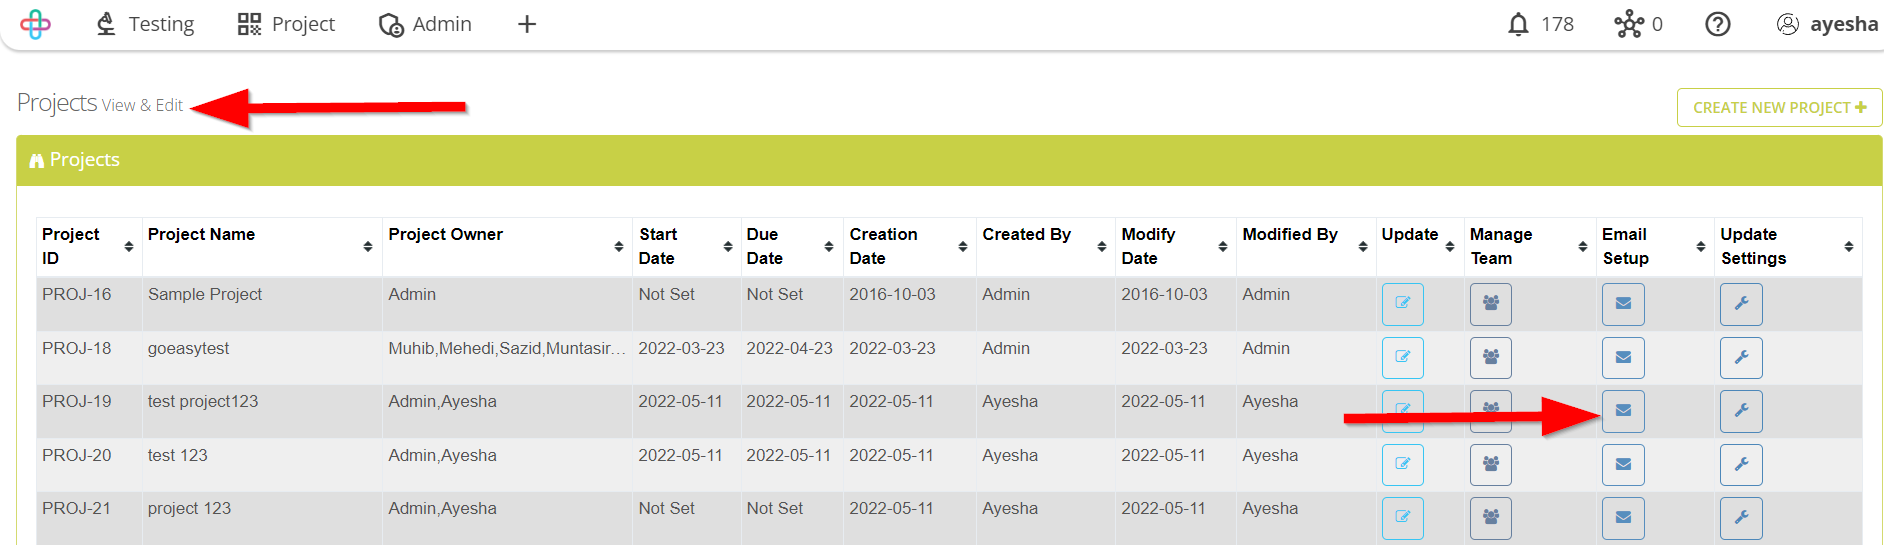
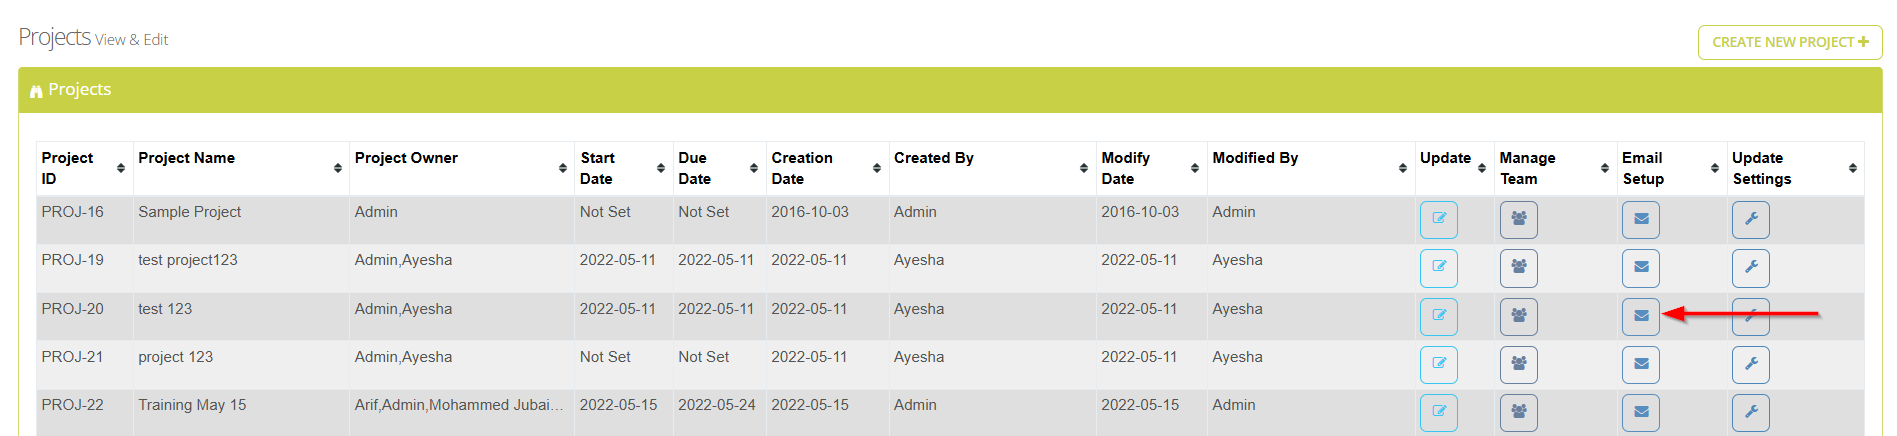
admin docs

diff --git a/docs/zeuz-server/admin/Projects/setup-email-notification.md b/docs/zeuz-server/admin/Projects/setup-email-notification.md
@@ -3,49 +3,102 @@ id: setup-email-notification
 title: Setting Up Email Notification
 ---
 
-### What does Email notification means in software testing?
+import MetaCard from '@site/src/components/MetaCard';
 
-**Email notification** in software testing refers to an automated system that sends email messages to relevant team members, stakeholders, or users to provide updates, alerts, and information about various aspects of the testing process. These notifications can include test results, issue reports, test case status changes, project milestones, and other critical updates.  
-**Email notifications** help keep team members informed and enable timely responses to issues, ensuring effective collaboration and efficient software testing processes.
+Setting up **email notification** means configuring the system in ZeuZ to automatically send email alerts to users when important event occur, such as test case updates, task assignments, or changes in test execution status.
 
-### Importance of setting up Email notification in software testing
+<MetaCard
+  availableFrom="20250518"
+  difficulty="🟢 Easy"
+  lastUpdated="25 Mar, 2026"
+  relatedTopics={["Create project", "Run tests", "Run ID details"]}
+/>
 
-Setting up **Email notifications** in software testing is crucial for timely communication of test results, issues, and project updates, facilitating quick response, collaboration, and informed decision-making among team members and stakeholders. This ensures efficient testing processes and high-quality software development.
+### Why it matters / Use Cases:
+- **Instant Updates**: Notifies team members when test cases are created, updated, or executed.
+- **Task Awareness**: Informs users when tasks or responsibilities are assigned to them.
+- **Faster Issue Response**: Alerts the team about failed test executions or important changes.
+- **Better Project Tracking**: Helps stakeholders monitor progress through automated email updates.
 
-## Steps
+## Prerequisites
+- Access to ZeuZ Server with permissions for **Admin → Team & Projects → Project List**.
+- At least one team must exist in the project to configure team-wise email settings.
+- A correct **From Address** must be provided to send notification emails.
+- The **Host/SMTP Address** and **Port number** must be correctly configured.
+- The user must have the required access rights in ZeuZ to manage email notification settings.
 
-1. From the **Menu bar**, go to the **Admin** then **List** option.
+## Quick-Start
+- Click on the **Email Setup** button available on the "Projects" page.
 
-![](/img/how-tos/how-to-setup-email-notification/admin-list.png)
+## Features
+- First, navigate to the **Projects** page by clicking the "Project List" option from the menu bar.
 
-2. Go to the **Projects** page.
-3. Click on the **Email Setup**.
-   > The *Email Setup* enables the *Email notifications* and alerts, allowing users to specify recipents, triggers, and content for automated *Email notifications* related to testing activities.
+![](/img/how-tos/how-to-setup-email-notification/list-project.png)
+
+![](/img/how-tos/how-to-setup-email-notification/page-project.png) 
+
+- Click the **Email Setup** button.   
 
 ![](/img/how-tos/how-to-setup-email-notification/email-setup.png)
 
-4. Go to the **Team Wise Email Settings** page.
-   > The *Team Wise Email Settings* page allows configuring *Email notifications* for specific teams, ensuring that relevant team members receive tailored alerts and updates, improving communication and collaboration within the testing process.
-5. Click on the specific **Team**.
-   > Selecting a specific *Team* ensures that only relevant team members receive notifications, minimizing unnecessary email clutter and improving the efficiency of communication.
+- Navigate to the **Team wise Email Settings** page.
+- Click the required **Team**.
 
-![](/img/how-tos/how-to-setup-email-notification/email-team.png)
+![](/img/how-tos/how-to-setup-email-notification/required-team.png)
 
-6. Fill up the information of **Email** of the selected **Team**.
-   > Filling up the *Email* information of the selected *Team* is essential to ensure that alerts and updates are sent to the correct recipents within that *Team*, facilitating effective communication effective communication in software testing.  
+- Enter the required email details for the selected **Team**:  
+  - **From**: Specifies the sender's email address that will in notification emails.
+  - **Host/SMTP Address**: Defines the mail server address used to send emails (e.g., *SMTP* server).
+  - **Port**: Indicates the port number required by the email server for communication.
+  - **Username**: The login username for authenticating with the SMTP server.
+  - **Password**: The corresponding password for the SMTP account.
+  - **TTLS**: Determines whether a secure email connection (encryption) is enabled or not.
 
-   > * **From**: Entering the *From* address is necessary to specify the sender's identity and provide a recognizable source for recipents, enhancing the credibility of the emails.  
-   > * **Host/SMTP address**: Entering the *Host/SMTP(Simple Mail Transfer Protocol)* is necessary to define the email server through which notifications will be sent, ensuring proper delivery of alerts.    
-   > * **Port**: Entering the *Port* number is necessary to specify the communication endpoint on the email server, enabling the correct transmission of notifications.  
-   > * **Username**: Entering the *Username* is necessary for authentication purposes when sending emails through the *SMTP* server, ensuring secure and authorized communication.  
-   > * **Password**: *Password* is necessary in *Email notification*  to authenticate and secure access to the *SMTP* server, preventing unauthorized use and ensuring the confidentiality of of email communications.  
-   > * **TLS**: *TLS(Transport Layer Security)* is required to encrypt the email communication, enhancing security and protective sensitive information during transmission.
-7. Click on the **Save** button.
+![](/img/how-tos/how-to-setup-email-notification/team-wise.png)
+
+- After entering the required details, click the **Save** button.
 
 ![](/img/how-tos/how-to-setup-email-notification/save-email.png)
 
-8. To test the email, click on the **Test Email** button.
-   > The *Test Email* button is used to check the functionality of email notifications by sending a test email, ensuring that the email setup is working correctly.
+### Test Email
+- A **Test Email** is a sample email sent to verify that the email notification setup is correctly configured. It is used to confirm that the provided SMTP details (such as server, port, and credentials) are working properly and that emails can be successfully delivered to the intended recipents.
+- After entering all the required details, click the **Test Email** button to test the email.
+- After clicking the **Test Email** button, a notification saying **"Email sent to your address successfully"** will appear below.
+- Finally, check your email to confirm that the test email was successfully delivered.
 
-![](/img/how-tos/how-to-setup-email-notification/test-email.png)
+![](/img/how-tos/how-to-setup-email-notification/email-sent.png)
 
+## FAQs / Troubleshooting
+
+<details>
+<summary>Why are email notifications not being received?</summary>
+
+Email notifications may not be received due to an incorrect email address, wrong SMTP settings, emails being filtered into spam, or the email service being inactive or blocked.
+
+</details>
+
+<details>
+<summary>What does the "Test Email" feature do?</summary>
+
+It sends a sample email to verify that the configuration is correct and to confirm that the system can successfully connect to the email server.
+
+</details>
+
+<details>
+<summary>Why does the Test Email fail?</summary>
+
+The issue may occur due to in incorrect SMTP credentials or server details, network restrictions blocking the connection, or an invalid port or encryption mismatch.
+
+</details>
+
+## Changelog
+
+- Always available.
+
+## Related Topics
+
+- [Create project](https://docs.zeuz.ai/docs/zeuz-server/admin/Projects/create-projects/)
+- [Run tests](https://docs.zeuz.ai/docs/zeuz-server/testing/Deployments/run-tests/)
+- [Run ID details](https://docs.zeuz.ai/docs/zeuz-server/testing/Deployments/run-id-details-page/)
+
+---